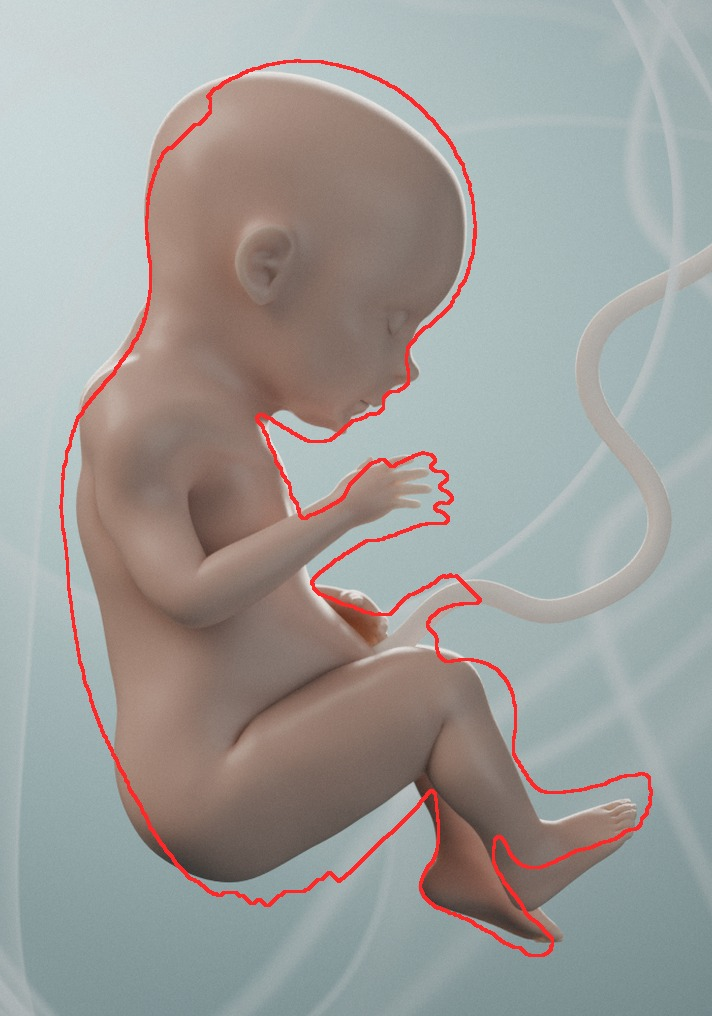
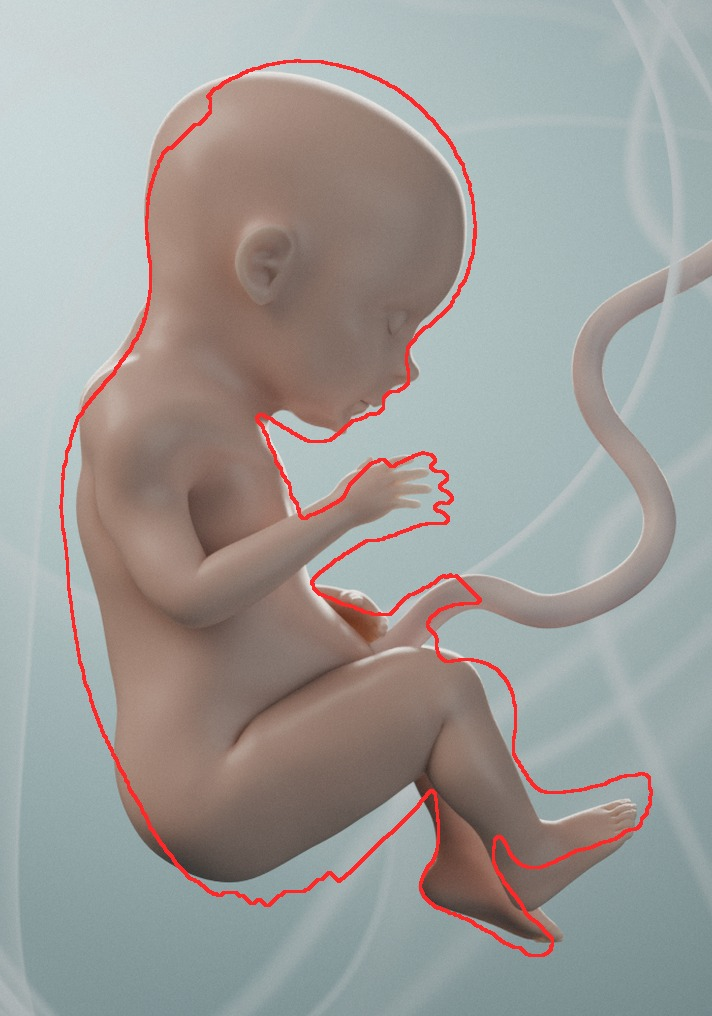
Fetal Growth Explorer: twisted, tapered umbilical cord as a mesh
- The cord curve is baked to a mesh (glTF has no curves; the render needs
  the sweep UVs), 4 mm radius tapering away from the navel.
- Material: pink-white jelly with the vessels' helical twist as a soft bump
  and cool-grey spiral streaks; subsurface scale below the cord radius so
  the streaks are not blurred away.

Claude-Session: https://claude.ai/code/session_012GPESLoAzkgxi7MKnnsx3V

Changed region(s): [[0.5253, 0.2136, 1.0, 0.6407]]

diff --git a/fetal-growth-explorer/blender/scripts/fge/lookdev.py b/fetal-growth-explorer/blender/scripts/fge/lookdev.py
@@ -260,18 +260,53 @@ def skin_material(name="MAT_Skin", translucency: float = 1.0, vessels: float = 1
 
 
 def cord_material(name="MAT_Cord") -> bpy.types.Material:
+    """Soft, slightly translucent pink-white cord with the faint helical twist of
+    its vessels (bump from a stripe that winds around the curve's UV)."""
     mat = bpy.data.materials.new(name)
     mat.use_nodes = True
     nt = mat.node_tree
     bsdf, _ = _principled(nt)
     bsdf.subsurface_method = "RANDOM_WALK"
-    bsdf.inputs["Base Color"].default_value = rgba("#E4EEEF")
-    bsdf.inputs["Subsurface Weight"].default_value = 0.35
-    bsdf.inputs["Subsurface Radius"].default_value = (0.8, 0.85, 0.9)
-    bsdf.inputs["Subsurface Scale"].default_value = 0.004
+    bsdf.inputs["Base Color"].default_value = rgba("#E6E2E4")
+    bsdf.inputs["Subsurface Weight"].default_value = 0.4
+    bsdf.inputs["Subsurface Radius"].default_value = (1.0, 0.6, 0.6)  # pink glow from within
+    bsdf.inputs["Subsurface Scale"].default_value = 0.0012  # shorter than the cord radius, or the streaks blur away
     bsdf.inputs["Roughness"].default_value = 0.45
     bsdf.inputs["Coat Weight"].default_value = 0.15
     bsdf.inputs["Coat Roughness"].default_value = 0.15
+    # helix: stripe phase = turns * u + v (u along the cord, v around it, 0..1)
+    uv = nt.nodes.new("ShaderNodeUVMap")
+    uv.uv_map = "UVMap"
+    sep = nt.nodes.new("ShaderNodeSeparateXYZ")
+    nt.links.new(uv.outputs["UV"], sep.inputs["Vector"])
+    turns = nt.nodes.new("ShaderNodeMath")
+    turns.operation = "MULTIPLY_ADD"
+    turns.inputs[1].default_value = 11.0  # full twists along the visible length
+    nt.links.new(sep.outputs["X"], turns.inputs[0])
+    nt.links.new(sep.outputs["Y"], turns.inputs[2])
+    wave = nt.nodes.new("ShaderNodeMath")
+    wave.operation = "SINE"
+    k = nt.nodes.new("ShaderNodeMath")
+    k.operation = "MULTIPLY"
+    k.inputs[1].default_value = 2.0 * math.pi  # one broad ridge per turn: the vessels read as a soft spiral
+    nt.links.new(turns.outputs["Value"], k.inputs[0])
+    nt.links.new(k.outputs["Value"], wave.inputs[0])
+    bump = nt.nodes.new("ShaderNodeBump")
+    bump.inputs["Strength"].default_value = 0.35
+    bump.inputs["Distance"].default_value = 0.0008
+    nt.links.new(wave.outputs["Value"], bump.inputs["Height"])
+    nt.links.new(bump.outputs["Normal"], bsdf.inputs["Normal"])
+    # the vessels also show as faint cool-grey spiral streaks under the jelly
+    streak = nt.nodes.new("ShaderNodeMapRange")
+    streak.inputs["From Min"].default_value = -1.0
+    streak.inputs["To Max"].default_value = 0.6
+    nt.links.new(wave.outputs["Value"], streak.inputs["Value"])
+    tint = nt.nodes.new("ShaderNodeMix")
+    tint.data_type = "RGBA"
+    tint.inputs["A"].default_value = rgba("#E8E2E3")
+    tint.inputs["B"].default_value = rgba("#BFC8D0")
+    nt.links.new(streak.outputs["Result"], tint.inputs["Factor"])
+    nt.links.new(tint.outputs["Result"], bsdf.inputs["Base Color"])
     return mat
 
 
@@ -466,7 +501,7 @@ def attach_cord(path, navel, normal, reach=4):
     return [tuple(p) for p in out]
 
 
-def make_cord(material, radius=0.0030, path=CORD_PATH, name="FET_Cord"):
+def make_cord(material, radius=0.0040, path=CORD_PATH, name="FET_Cord"):
     curve = bpy.data.curves.new(name, "CURVE")
     curve.dimensions = "3D"
     curve.resolution_u = 24
@@ -479,11 +514,23 @@ def make_cord(material, radius=0.0030, path=CORD_PATH, name="FET_Cord"):
         p.co = (*co, 1.0)
     spline.use_endpoint_u = True
     spline.order_u = 4
-    # Slightly thicker where it leaves the belly.
+    # Thicker where it leaves the belly, tapering toward the placenta side.
+    n = len(spline.points)
     for i, p in enumerate(spline.points):
-        p.radius = 1.12 if i < 2 else 1.0
-    ob = bpy.data.objects.new(name, curve)
-    ob.data.materials.append(material)
+        p.radius = 1.12 - 0.25 * (i / max(n - 1, 1))
+    tmp = bpy.data.objects.new(name + "_curve", curve)
+    bpy.context.scene.collection.objects.link(tmp)
+    bpy.context.view_layer.update()
+    # Bake to a mesh: glTF has no curves, and the render needs the sweep's UVs
+    # (u along the cord, v around it) for the twist.
+    mesh = bpy.data.meshes.new_from_object(tmp.evaluated_get(bpy.context.evaluated_depsgraph_get()))
+    mesh.name = name
+    bpy.data.objects.remove(tmp, do_unlink=True)
+    bpy.data.curves.remove(curve)
+    ob = bpy.data.objects.new(name, mesh)
+    mesh.materials.clear()
+    mesh.materials.append(material)
+    mesh.shade_smooth()
     collection("CORD").objects.link(ob)
     return ob
 
